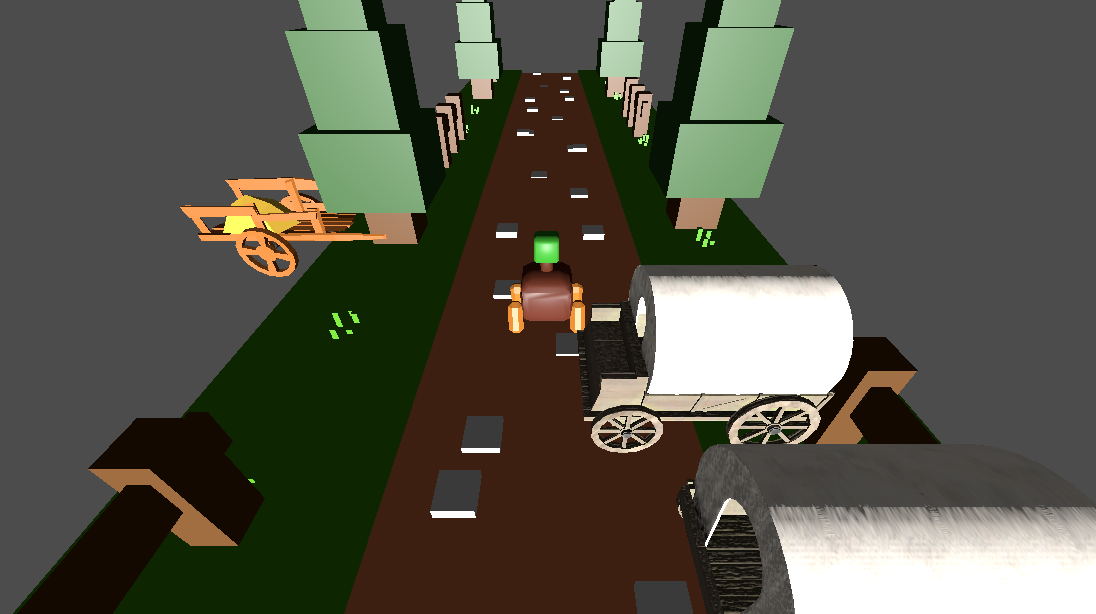
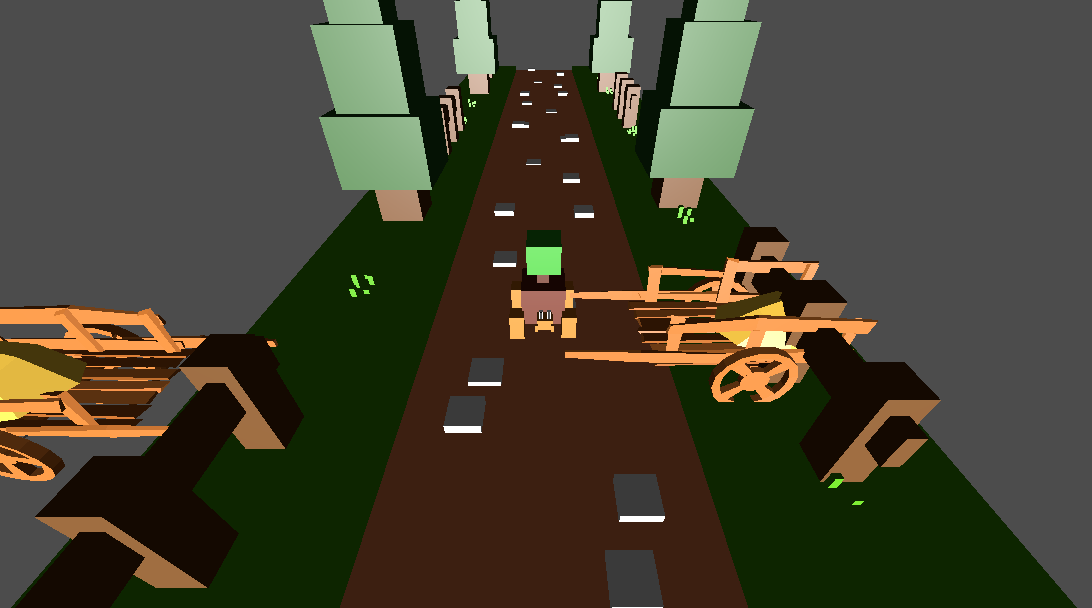
Add files via upload

diff --git a/César_practica-7 - copia/README.md b/César_practica-7 - copia/README.md
@@ -1,21 +1,0 @@
-Chull: El diseño exhibe un caparazón marrón de gran tamaño y forma angular que actúa como cuerpo como si fuera un tipo de crustáceo, coronado por un pequeño árbol cúbico estilizado con su tronco implantado en la parte superior. Esta característica esencial sugiere su naturaleza sedentaria y excavadora. Sus cuatro patas segmentadas y su rostro han sido simplificados, pero sus grandes ojos blancos y expresivos, con pupilas negras, le otorgan una personalidad lúdica y encantadora.
-
-Controles de Movimiento
-  W / Flecha Arriba → Avanzar
-  S / Flecha Abajo → Retroceder
-  A / Flecha Izquierda → Mover a la izquierda
-  D / Flecha Derecha → Mover a la derecha
-
-Características del movimiento:
-  Movimiento por casillas (grid-based).
-  El personaje se mueve un bloque por entrada.
-  No se puede mover mientras está en transición entre casillas.
-  El personaje rota automáticamente hacia la dirección del movimiento.
-
-Los NPCs representan obstáculos dinámicos similares a los coches en Crossy Road.
-Se mueven automáticamente entre dos puntos:
-  Punto A: posición inicial
-  Punto B: desplazamiento en el eje X
-El movimiento es:
-  Lineal
-  Continuo